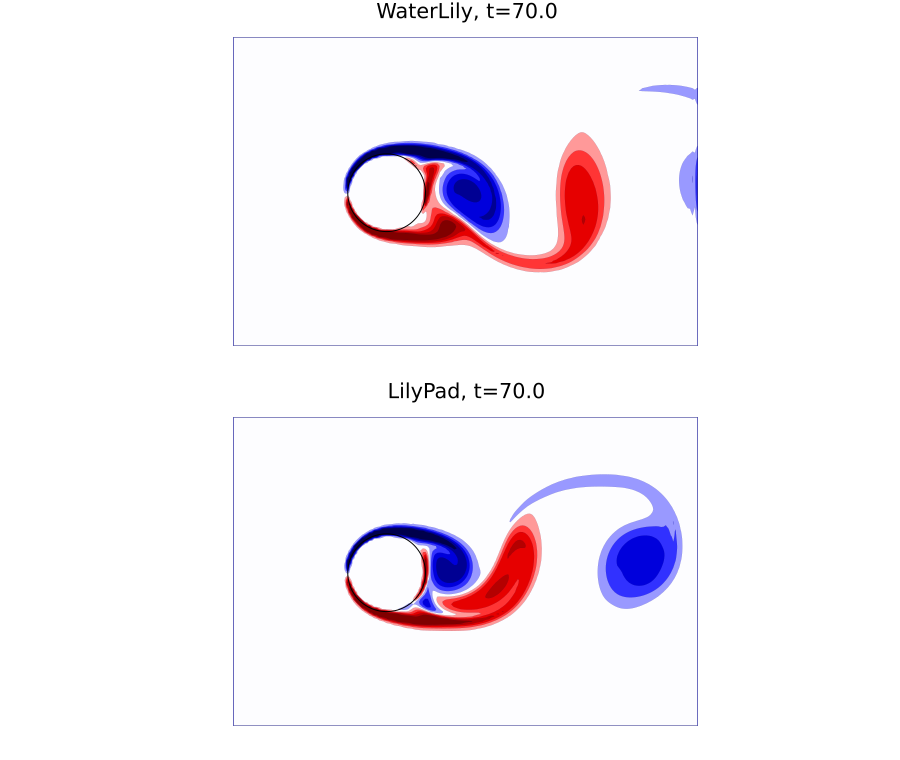
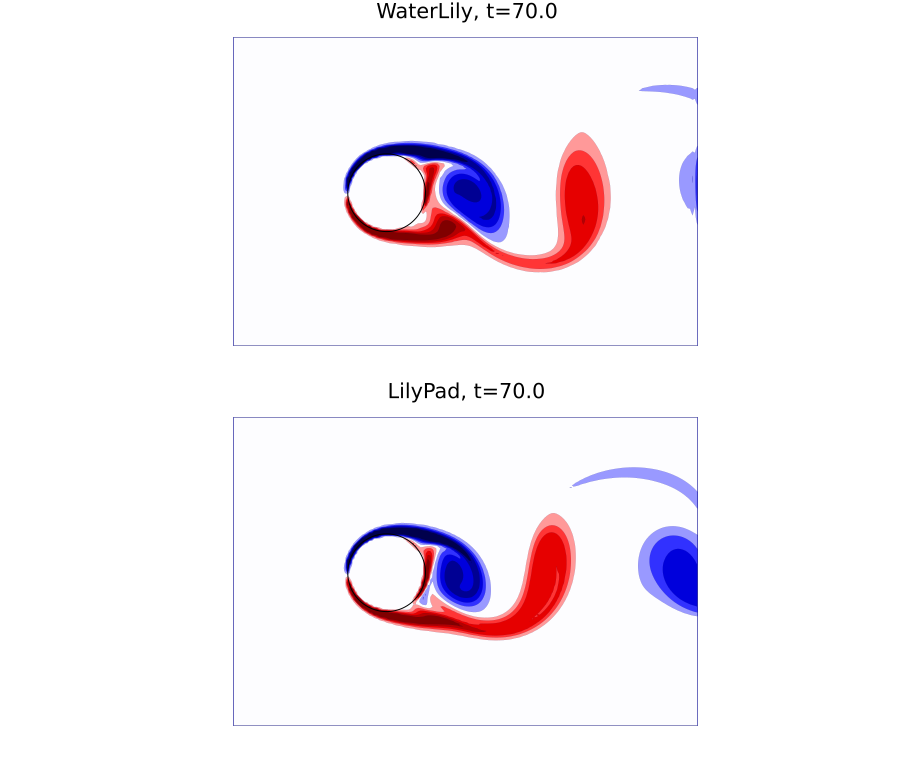
Update the README circle results for the chained BDF2 history

Changed region(s): [[0.4356, 0.6053, 0.7778, 0.8474]]

diff --git a/CLAUDE.md b/CLAUDE.md
@@ -89,11 +89,11 @@ Test suite runs on `Array` and/or `CuArray`, selected like WaterLily's `WATERLIL
 
 	|           | Cd    | Cd′   | CL    | St    | s/(tU/L) |
 	|-----------|-------|-------|-------|-------|----------|
-	| WaterLily | 1.742 | 0.128 | 1.410 | 0.256 | 0.271    |
-	| LilyPad   | 1.913 | 0.148 | 1.564 | 0.254 | 0.020    |
+	| WaterLily | 1.742 | 0.128 | 1.410 | 0.256 | 0.256    |
+	| LilyPad   | 1.891 | 0.141 | 1.513 | 0.256 | 0.019    |
 
-	- LP vs WL: Cd +10%, Cd′ +16%, CL amplitude +11%, St −1%.
-	- Speed-up 11–13×: 7× from `Δt` (WL's viscous CFL gives `Δt≈0.35`), 1.5× per step since the 2D case is kernel-launch bound (GPU busy 20–27%) and LP launches 161 vs 248 kernels per step.
+	- LP vs WL: Cd +9%, Cd′ +10%, CL amplitude +7%, St 0%.
+	- Speed-up 13×: 7× from `Δt` (WL's viscous CFL gives `Δt≈0.35`), 1.9× per step since the 2D case is kernel-launch bound.
 	- Always average over whole cycles. Lift mean is not reported: its cycle-to-cycle standard error is too large to resolve.
 - **3D sphere, GPU, ν=0, LP `Δt=2.5`** (s/(tU/L)): L=32 WL 2.60, LP 0.77 (3.4×); L=64 WL 50.3, LP 12.5 (4.0×). Large 3D grids are compute bound: LP costs 1.26× WL per step; advection ~50% and projection ~38% of LP GPU time; 3 MG iterations per projection vs WL's 1.
 - **Viscous validation**: Taylor–Green decay error ≤0.2% (same as WL) for `νΔt ≤ 0.15`, effective ν +1.9% at `νΔt = 1/3`. Circle L=16, Re=200 vs WL: Cd +3.5%, CL amplitude +4%, St +1%.

diff --git a/README.md b/README.md
@@ -56,10 +56,10 @@ Outputs of `examples/readme_circle_compare.jl` (`L=32`, `Re=500`, `Δt=2.5` for 
 
 |           | Cd    | Cd′   | CL    | St    | s/(tU/L) |
 |-----------|-------|-------|-------|-------|----------|
-| WaterLily | 1.742 | 0.128 | 1.410 | 0.256 | 0.271    |
-| LilyPad   | 1.913 | 0.148 | 1.564 | 0.254 | 0.020    |
+| WaterLily | 1.742 | 0.128 | 1.410 | 0.256 | 0.256    |
+| LilyPad   | 1.891 | 0.141 | 1.513 | 0.256 | 0.019    |
 
-LilyPad is ~13× faster: a 7× larger time step (WaterLily's viscous CFL gives `Δt≈0.35`) and 1.5× cheaper steps, since this small 2D case is kernel-launch bound and LilyPad launches 35% fewer kernels.
+LilyPad is ~13× faster: a 7× larger time step (WaterLily's viscous CFL gives `Δt≈0.35`) and 1.9× cheaper steps, since this small 2D case is kernel-launch bound and LilyPad launches fewer kernels.
 
 ## Quick Switching Pattern
 
